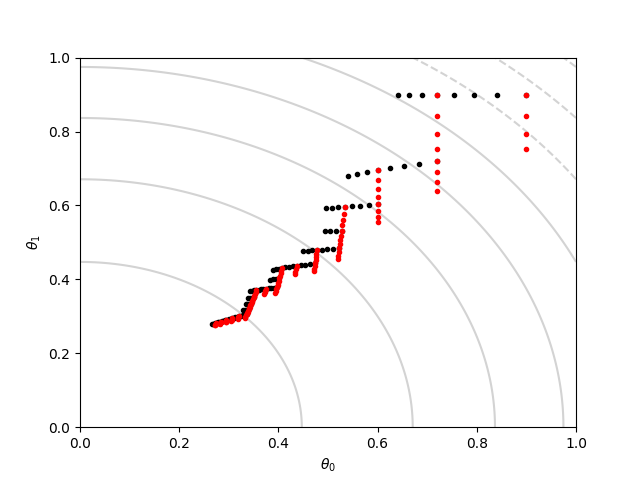
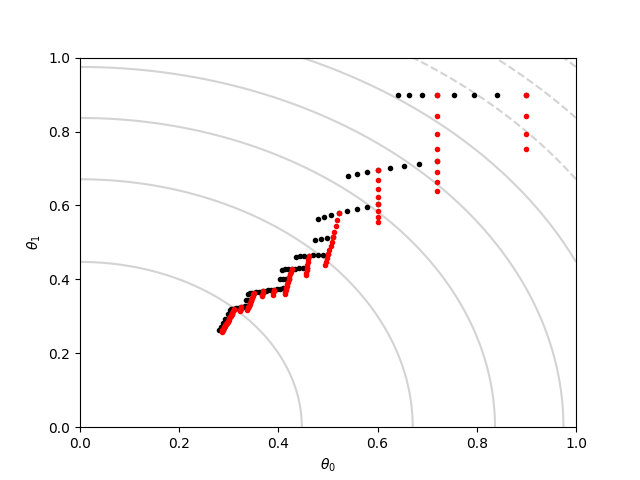
Refactor the toy model.

Changed region(s): [[0.3125, 0.4062, 0.5938, 0.7188]]

diff --git a/toy_model.py b/toy_model.py
@@ -10,7 +10,7 @@ class ToyModel:
         self.need_explore = False
 
         self.perturb_factors = [0.8, 1.2]
-        self.lr = 0.02  
+        self.lr = 0.02
 
         self.theta_0 = tf.Variable(0.9)
         self.theta_1 = tf.Variable(0.9)
@@ -22,16 +22,7 @@ class ToyModel:
             self.hparams['h_0'] = 1.0
             self.hparams['h_1'] = 0.0
 
-        self.surrogate_obj = 1.2 - (self.hparams['h_0']*tf.square(self.theta_0) + self.hparams['h_1']*tf.square(self.theta_1))
-        self.obj = 1.2 - (tf.square(self.theta_0) + tf.square(self.theta_1))
-        self.loss = tf.square((self.obj - self.surrogate_obj))
-        #self.loss = tf.square(self.theta_0) + tf.square(self.theta_1)
-        self.fake_loss = tf.square(self.theta_0) + tf.square(self.theta_1)
-
-        self.optimizer = tf.train.GradientDescentOptimizer(self.lr)
-        self.train_op = self.optimizer.minimize(self.loss)
-
-        self.trainable_vars = [self.theta_0, self.theta_1]
+        self.build_graph_from_hparams()
         self.train_log = []
 
     def init_variables(self):
@@ -41,10 +32,49 @@ class ToyModel:
         for i in range(num_steps):
             self.train_log.append(self.sess.run(self.trainable_vars))
             self.sess.run(self.train_op)
-            self.train_step += 1
+            self.train_step += 1    
+
+    def perturb_hparams_and_update_graph(self):
+        self.hparams['h_0'] = self._perturb_float(self.hparams['h_0'], 0.0, 1.0)
+        self.hparams['h_1'] = self._perturb_float(self.hparams['h_1'], 0.0, 1.0)
+
+        #NOTE: We don't reload the variables here, but it seems working.
+        self.build_graph_from_hparams()
+
+    #the loss is not the same as the loss to compute the gradients
+    #this may be another bug of the paper
+    def get_loss(self):
+        return self.sess.run(self.fake_loss)
+
+    def get_values(self):
+        return [self.cluster_id, self.get_loss(), self.sess.run(self.trainable_vars), self.hparams]
+
+    def set_values(self, values):
+        for i in range(len(self.trainable_vars)):
+            self.trainable_vars[i].load(values[2][i], self.sess)
+        
+        # Skip the copying of hyper-parameters to obtain the result of the paper
+        '''self.hparams = values[3]
+        self.surrogate_obj = 1.2 - (self.hparams['h_0']*tf.square(self.theta_0) + self.hparams['h_1']*tf.square(self.theta_1))
+        self.obj = 1.2 - (tf.square(self.theta_0) + tf.square(self.theta_1))
+        self.loss = tf.square((self.obj - self.surrogate_obj))
+
+        self.optimizer = tf.train.GradientDescentOptimizer(0.02)
+        self.train_op = self.optimizer.minimize(self.loss)'''
+    
+    def build_graph_from_hparams(self):
+        self.surrogate_obj = 1.2 - (self.hparams['h_0']*tf.square(self.theta_0) + self.hparams['h_1']*tf.square(self.theta_1))
+        self.obj = 1.2 - (tf.square(self.theta_0) + tf.square(self.theta_1))
+        self.loss = tf.square((self.obj - self.surrogate_obj))
+        self.fake_loss = tf.square(self.theta_0) + tf.square(self.theta_1)
+
+        self.optimizer = tf.train.GradientDescentOptimizer(self.lr)
+        self.train_op = self.optimizer.minimize(self.loss)
+
+        self.trainable_vars = [self.theta_0, self.theta_1]
 
     def _perturb_float(self, val, limit_min, limit_max):
-            # Noted, some hp value can't exceed reasonable range
+            #NOTE: some hp value can't exceed reasonable range
             float_string = str(limit_min)
             if 'e' in float_string:
                 _, n_digits = float_string.split('e')
@@ -65,41 +95,3 @@ class ToyModel:
             val = round(val, n_digits)
             
             return val
-
-    def perturb_hparams_and_update_graph(self):
-        self.hparams['h_0'] = self._perturb_float(self.hparams['h_0'], 0.0, 1.0)
-        self.hparams['h_1'] = self._perturb_float(self.hparams['h_1'], 0.0, 1.0)
-
-        self.surrogate_obj = 1.2 - (self.hparams['h_0']*tf.square(self.theta_0) + self.hparams['h_1']*tf.square(self.theta_1))
-        self.obj = 1.2 - (tf.square(self.theta_0) + tf.square(self.theta_1))
-        self.loss = tf.square((self.obj - self.surrogate_obj))
-        #self.loss = tf.square(self.theta_0) + tf.square(self.theta_1)
-        self.fake_loss = tf.square(self.theta_0) + tf.square(self.theta_1)
-
-        self.optimizer = tf.train.GradientDescentOptimizer(self.lr)
-        self.train_op = self.optimizer.minimize(self.loss)
-
-        #NOTE: We don't reload the variables here, but it seems working.
-        self.trainable_vars = [self.theta_0, self.theta_1]
-
-    #the loss is not the same as the loss to compute the gradients
-    #this may be a bug of the paper
-    def get_loss(self):
-        return self.sess.run(self.fake_loss)
-
-    def get_values(self):
-        return [self.cluster_id, self.get_loss(), self.sess.run(self.trainable_vars), self.hparams]
-
-    def set_values(self, values):
-        for i in range(len(self.trainable_vars)):
-            self.trainable_vars[i].load(values[2][i], self.sess)
-        
-        '''self.hparams = values[3]
-        self.surrogate_obj = 1.2 - (self.hparams['h_0']*tf.square(self.theta_0) + self.hparams['h_1']*tf.square(self.theta_1))
-        self.obj = 1.2 - (tf.square(self.theta_0) + tf.square(self.theta_1))
-        self.loss = tf.square((self.obj - self.surrogate_obj))
-
-        self.optimizer = tf.train.GradientDescentOptimizer(0.02)
-        self.train_op = self.optimizer.minimize(self.loss)'''
-
-        

diff --git a/main_manager.py b/main_manager.py
@@ -18,11 +18,11 @@ rank = comm.Get_rank()
 master_rank = 0
 if rank == master_rank:
     #The PBT case
-    cluster = PBTCluster(2, comm, master_rank, do_exploit=True, do_explore=True)
+    cluster = PBTCluster(2, comm, master_rank)
     #The exploit only case
-    #cluster = PBTCluster(2, comm, master_rank, do_exploit=True, do_explore=False)
+    #cluster = PBTCluster(2, comm, master_rank, do_explore=False)
     #The explore only case(still dirty, needs to change the code around line 78 to make this work)
-    #cluster = PBTCluster(2, comm, master_rank, do_exploit=False, do_explore=True)
+    #cluster = PBTCluster(2, comm, master_rank, do_exploit=False)
     #The grid search case
     #cluster = PBTCluster(2, comm, master_rank, do_exploit=False, do_explore=False)
 
